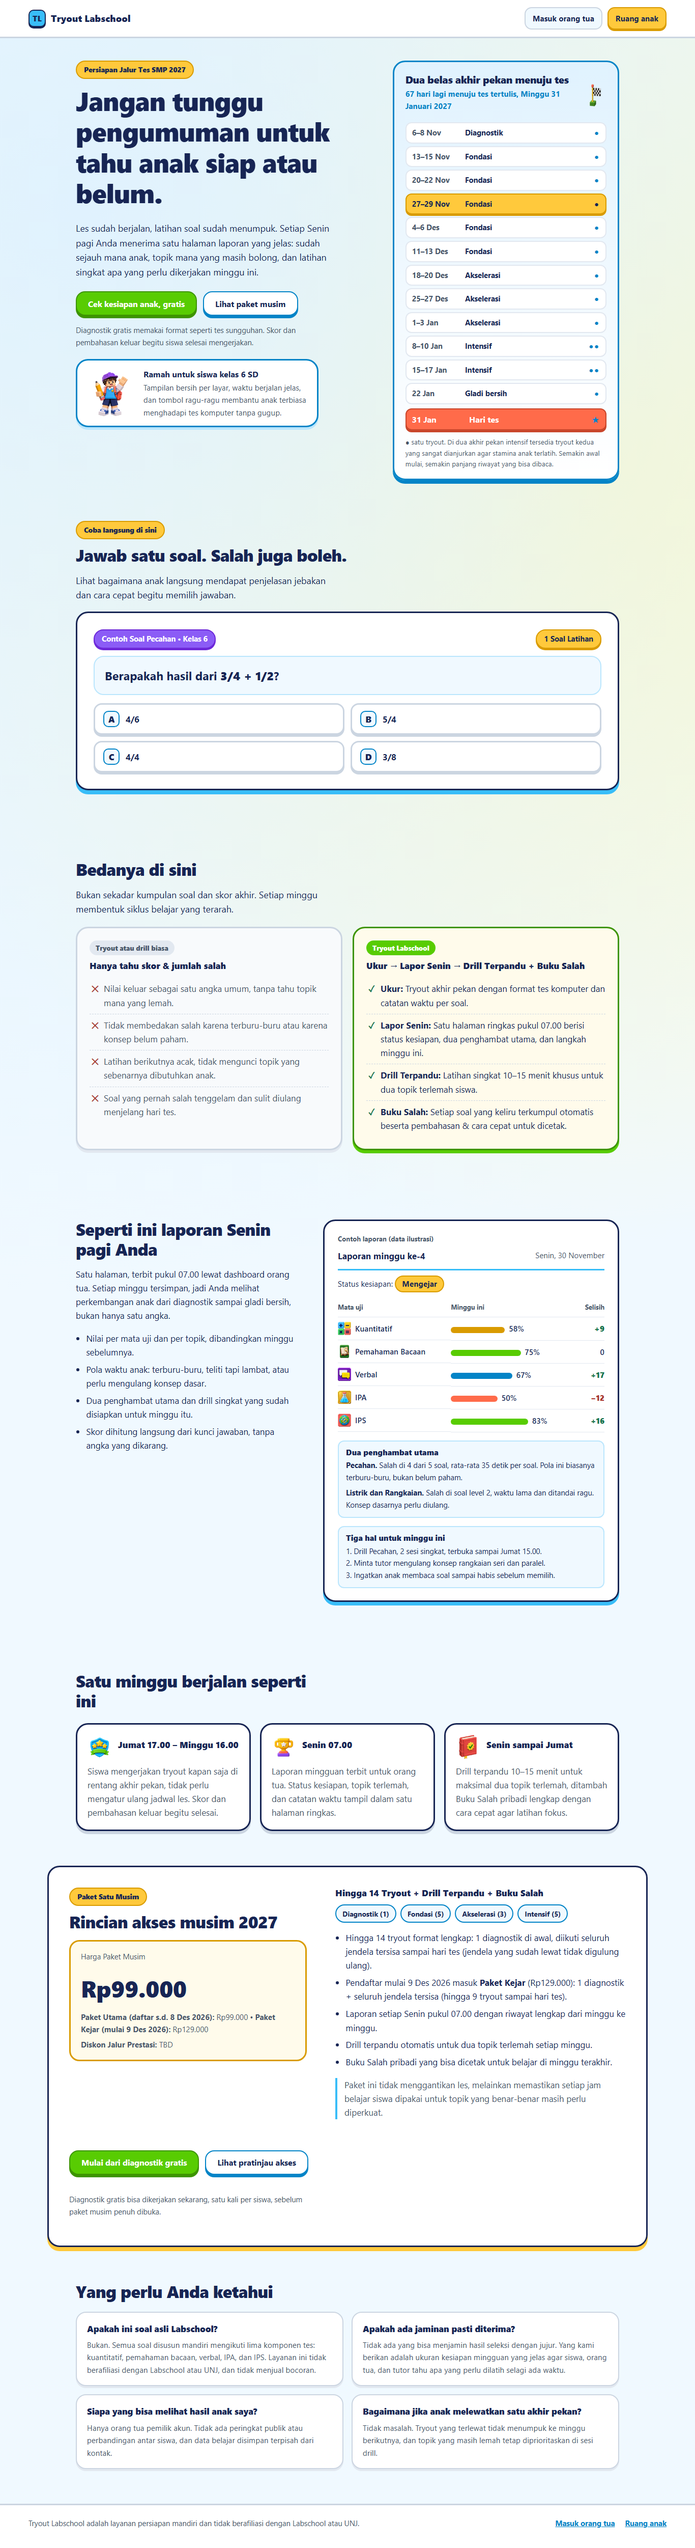
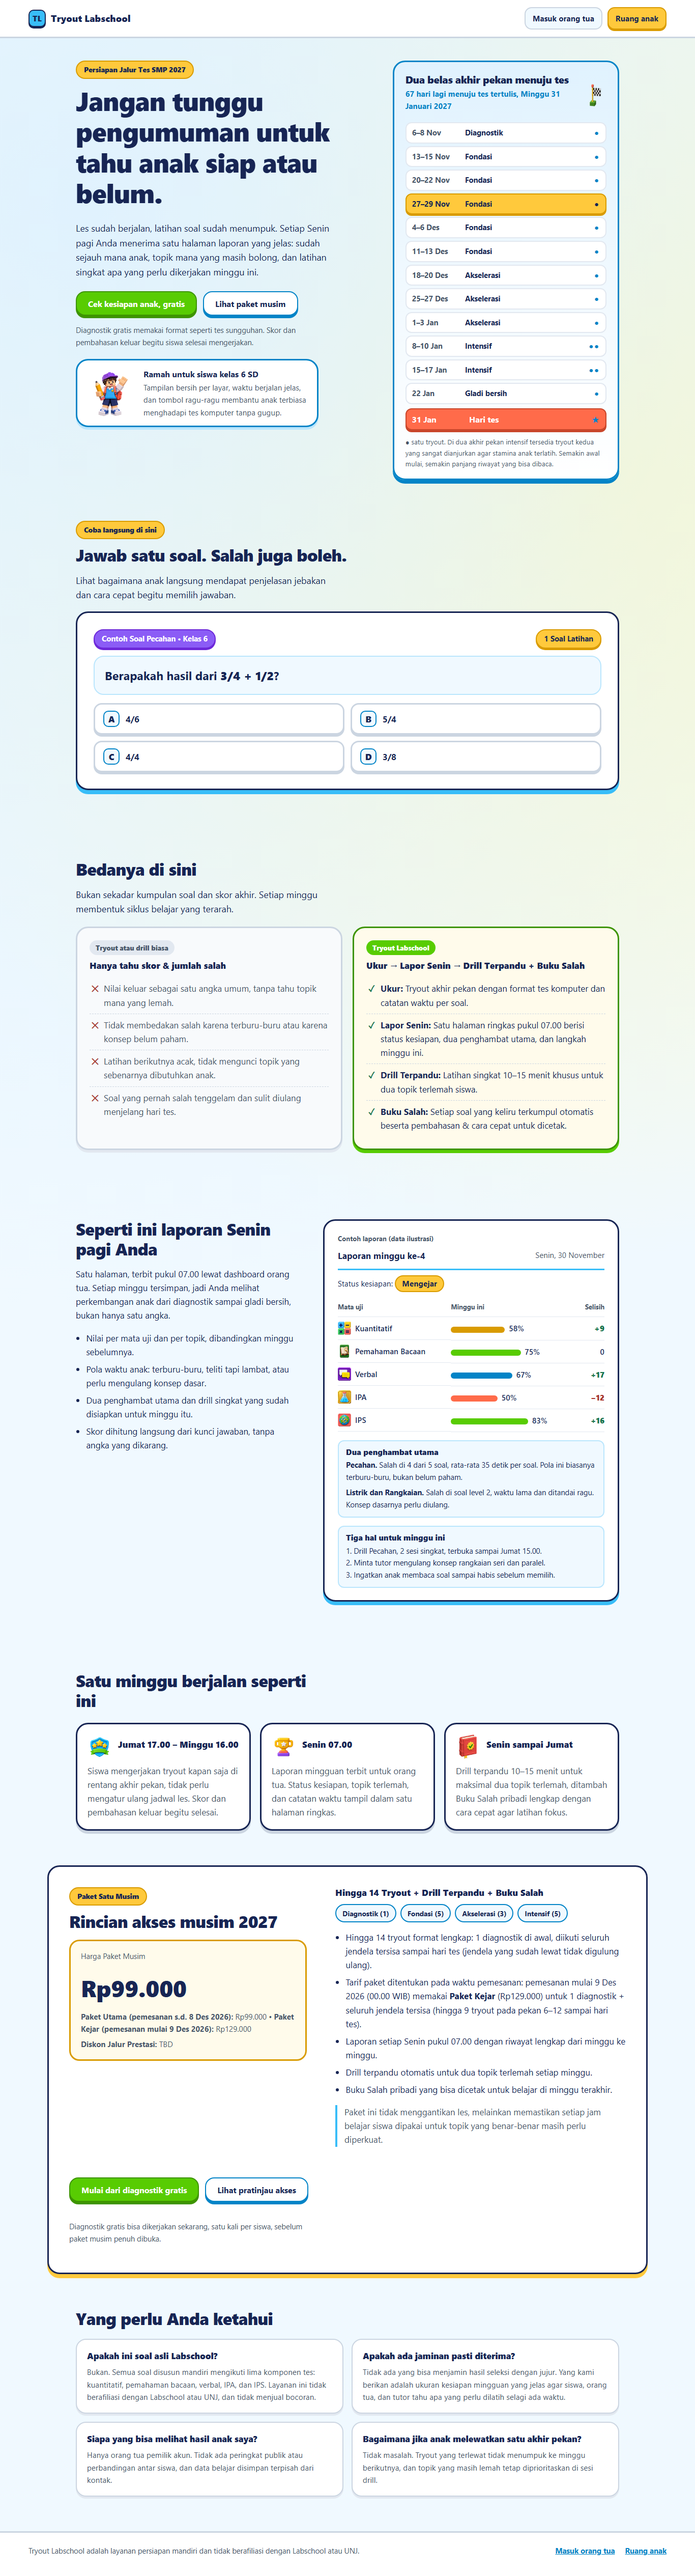
fix(qa): align cutoff copy to order time, fix paywall modal 14-tryout claim, add regressions, and sync QA-PACKAGE

diff --git a/public/index.html b/public/index.html
@@ -245,7 +245,7 @@
       <div class="price-tag-box">
         <p class="fine">Harga Paket Musim</p>
         <p class="amount">Rp99.000</p>
-        <p class="price-sub-row"><strong>Paket Utama (daftar s.d. 8 Des 2026):</strong> Rp99.000 &bull; <strong>Paket Kejar (mulai 9 Des 2026):</strong> Rp129.000</p>
+        <p class="price-sub-row"><strong>Paket Utama (pemesanan s.d. 8 Des 2026):</strong> Rp99.000 &bull; <strong>Paket Kejar (pemesanan mulai 9 Des 2026):</strong> Rp129.000</p>
         <p class="price-sub-row"><strong>Diskon Jalur Prestasi:</strong> TBD</p>
       </div>
     </div>
@@ -259,7 +259,7 @@
       </div>
       <ul class="plain">
         <li>Hingga 14 tryout format lengkap: 1 diagnostik di awal, diikuti seluruh jendela tersisa sampai hari tes (jendela yang sudah lewat tidak digulung ulang).</li>
-        <li>Pendaftar mulai 9 Des 2026 masuk <strong>Paket Kejar</strong> (Rp129.000): 1 diagnostik + seluruh jendela tersisa (hingga 9 tryout sampai hari tes).</li>
+        <li>Tarif paket ditentukan pada waktu pemesanan: pemesanan mulai 9 Des 2026 (00.00 WIB) memakai <strong>Paket Kejar</strong> (Rp129.000) untuk 1 diagnostik + seluruh jendela tersisa (hingga 9 tryout pada pekan 6–12 sampai hari tes).</li>
         <li>Laporan setiap Senin pukul 07.00 dengan riwayat lengkap dari minggu ke minggu.</li>
         <li>Drill terpandu otomatis untuk dua topik terlemah setiap minggu.</li>
         <li>Buku Salah pribadi yang bisa dicetak untuk belajar di minggu terakhir.</li>
@@ -309,17 +309,17 @@
       <img src="/assets/final/paywall-lock.png" alt="Ikon gembok akses paket musim" width="60" height="60">
       <div>
         <span class="badge-star">Pratinjau Paket Musim</span>
-        <h2 id="paywall-title">Buka seluruh 14 Tryout, Drill &amp; Buku Salah</h2>
+        <h2 id="paywall-title">Buka Hingga 14 Tryout, Drill Terpandu &amp; Buku Salah</h2>
       </div>
     </div>
-    <p>Setelah menyelesaikan Diagnostik gratis, akses penuh membuka seluruh rangkaian latihan mingguan hingga hari tes:</p>
+    <p>Setelah menyelesaikan Diagnostik gratis, paket berbayar membuka seluruh jendela latihan mingguan yang tersisa hingga hari tes (jendela yang sudah lewat tidak digulung ulang):</p>
     <ul class="paywall-list">
-      <li><strong>14 Tryout Terjadwal:</strong> Diagnostik (1), Fondasi (5), Akselerasi (3), dan Intensif (5).</li>
+      <li><strong>Hingga 14 Tryout Terjadwal:</strong> 1 Diagnostik di awal + seluruh jendela tersisa dari rangkaian Fondasi (5), Akselerasi (3), Intensif (5), hingga Gladi Bersih (pendaftar terlambat mulai pekan 6/7 memperoleh hingga 8–9 tryout tersisa).</li>
       <li><strong>Laporan Senin 07.00:</strong> Status kesiapan dan analisa waktu per soal setiap minggu.</li>
       <li><strong>Drill Terpandu &amp; Buku Salah:</strong> Fokus pada topik terlemah + versi siap cetak.</li>
     </ul>
     <div class="paywall-price-note">
-      <strong>Paket Utama (s.d. 8 Des 2026):</strong> Rp99.000 &bull; <strong>Paket Kejar (mulai 9 Des 2026):</strong> Rp129.000 (tryout mengikuti jendela tersisa) &bull; <strong>Diskon Jalur Prestasi:</strong> TBD
+      <strong>Paket Utama (pemesanan s.d. 8 Des 2026):</strong> Rp99.000 &bull; <strong>Paket Kejar (pemesanan mulai 9 Des 2026):</strong> Rp129.000 (mengikuti jendela tersisa) &bull; <strong>Diskon Jalur Prestasi:</strong> TBD
     </div>
     <div class="actions">
       <a class="btn solid" href="/parent/#/daftar">Daftar &amp; coba diagnostik gratis</a>

diff --git a/public/parent/parent.js b/public/parent/parent.js
@@ -409,17 +409,22 @@
     const pending = (h.orders || []).find((o) => o.status === 'menunggu');
     const activeName = h.plan === 'kejar' ? 'Paket kejar' : 'Paket utama';
     const offerName = (h.offer && h.offer.plan === 'kejar') ? 'Paket kejar' : 'Paket utama';
+    const cutoffNote = (h.offer && h.offer.plan === 'kejar')
+      ? 'Pemesanan mulai 9 Des 2026 (00.00 WIB) menggunakan tarif Paket Kejar.'
+      : 'Tarif Paket Utama berlaku untuk pemesanan s.d. 8 Des 2026 (pemesanan mulai 9 Des 2026 memakai Paket Kejar Rp129.000).';
     let buy;
     if (paid) {
       buy = `<p class="ok-box"><strong>${esc(activeName)} aktif.</strong> Tryout terbuka setiap Jumat 17.00 sampai Minggu 16.00. Laporan mingguan terbit Senin pukul 07.00.</p>`;
     } else if (h.offer.amount_idr == null) {
-      buy = '<p class="muted">Paket untuk pendaftar mulai 9 Desember sedang disiapkan.</p>';
+      buy = '<p class="muted">Paket untuk pemesanan mulai 9 Desember sedang disiapkan.</p>';
     } else if (h.gateway === 'sim' && !h.playtest) {
       buy = `<p>${esc(offerName)} <strong>${rp(h.offer.amount_idr)}</strong> untuk ${esc(h.offer.tryouts)} tryout pada jendela tersisa sampai hari tes.</p>
+        <p class="muted">${esc(cutoffNote)}</p>
         <p class="muted">Pembayaran online segera dibuka. Diagnostik gratis tetap bisa dikerjakan sekarang.</p>`;
     } else {
       const simTag = h.playtest ? ' <span class="pill sim">Simulasi</span>' : '';
-      const head = `<p>${esc(offerName)} <strong>${rp(h.offer.amount_idr)}</strong>${simTag} untuk ${esc(h.offer.tryouts)} tryout pada jendela tersisa sampai hari tes.</p>`;
+      const head = `<p>${esc(offerName)} <strong>${rp(h.offer.amount_idr)}</strong>${simTag} untuk ${esc(h.offer.tryouts)} tryout pada jendela tersisa sampai hari tes.</p>
+        <p class="muted">${esc(cutoffNote)}</p>`;
       if (pending && pending.payment_url) {
         buy = head + `<p class="muted">Ada pesanan yang menunggu pembayaran.</p>
           <a class="btn solid" href="${esc(pending.payment_url)}">Lanjutkan pembayaran</a>

diff --git a/reference/test_e2e_parent.py b/reference/test_e2e_parent.py
@@ -48,8 +48,12 @@ def test_landing_renders_and_links_to_register(browser):
         assert "AWAS JEBAKAN" in page.inner_text("#demo-trap")
         page.click("#demo-retry"); page.click(".demo-opt[data-choice='B']")
         assert "benar" in page.inner_text("#demo-fb-title").lower()
-        # Cek modal paywall terpadu
+        # Cek modal paywall terpadu (konsisten jendela tersisa & waktu pemesanan, tanpa klaim mutlak seluruh 14 tryout)
         page.click("#open-paywall"); page.wait_for_selector("#paywall-modal:not([hidden])")
+        modal_txt = page.inner_text("#paywall-modal")
+        assert "Hingga 14 Tryout" in modal_txt and "Buka seluruh 14 Tryout" not in modal_txt
+        assert "jendela yang sudah lewat tidak digulung ulang" in modal_txt
+        assert "pemesanan s.d. 8 Des 2026" in modal_txt and "pemesanan mulai 9 Des 2026" in modal_txt
         page.click("#close-paywall")
         page.click("text=Cek kesiapan anak, gratis"); page.wait_for_selector("text=Daftar dan coba diagnostik gratis")
         assert not errs, errs
@@ -263,3 +267,32 @@ def test_canonical_bank_subjects_and_mobile_portals_in_browser(tmp_path, browser
             if p: p.close()
         s.shutdown(); s.server_close()
         bank.configure(None)
+
+
+def test_late_joiner_and_cross_cutoff_order_in_browser(browser):
+    """Regresi E2E: daftar 8 Des lalu order mulai 9 Des (Kejar Rp129.000) & akses jendela tersisa (9 tryout)."""
+    s, base = _serve(True)
+    page = browser.new_page(viewport={"width": 1200, "height": 900}); errs = _watch(page)
+    try:
+        # 1. Daftar 8 Des 20.00 WIB -> penawaran dashboard sebelum order masih Paket Utama + tanggal pemesanan eksplisit
+        page.goto(base + "/parent/?sim=2026-12-08T20:00#/daftar")
+        page.fill("#name", "Ibu Lintas"); page.fill("#whatsapp", "081277770001")
+        page.fill("#email", "lintas@contoh.id"); page.fill("#pin", "246810")
+        page.check("#consent"); page.click("button[type=submit]")
+        page.wait_for_selector(".code")
+        page.click("text=Saya sudah mencatat kode"); page.wait_for_selector("h1:has-text('Dashboard')")
+        pre_txt = page.inner_text("main")
+        assert "Paket utama" in pre_txt and "Rp99.000" in pre_txt and "pemesanan s.d. 8 Des 2026" in pre_txt
+
+        # 2. Melewati 9 Des 00.00 WIB sebelum order -> tawaran beralih ke Paket Kejar Rp129.000 (9 tryout tersisa)
+        page.goto(base + "/parent/?sim=2026-12-10T10:00#/beranda")
+        page.wait_for_selector("text=Paket kejar")
+        post_txt = page.inner_text("main")
+        assert "Paket kejar" in post_txt and "Rp129.000" in post_txt and "9 tryout pada jendela tersisa" in post_txt
+        assert "Pemesanan mulai 9 Des 2026" in post_txt
+        page.click("#order"); page.wait_for_selector("#pay")
+        page.click("#pay"); page.wait_for_selector("text=Paket kejar aktif.")
+        assert not errs, errs
+    finally:
+        page.close()
+        s.shutdown(); s.server_close()

diff --git a/reference/test_backend.py b/reference/test_backend.py
@@ -531,3 +531,17 @@ def test_g20_parent_register_and_relogin_same_device_counts_as_one_slot(app):
     # Perangkat ke-4 ditolak
     st4, e4 = call(app, "POST", "/api/parent/login", {"email": "p-dev@b.co", "pin": "123456"}, headers={"User-Agent": same_ua, "X-Device-Id": "dev_p4"})
     assert st4 == 403 and e4["error"] == "device_limit_tercapai"
+
+
+def test_cutoff_determined_by_order_time_register_8_dec_order_9_dec(app):
+    st, r = call(app, "POST", "/api/parent/register",
+                 {"name": "Ibu Lintas Cutoff", "whatsapp": "081234567895", "email": "cutoff@b.co", "campus": "Cibubur", "track": "Tes", "grade": "6", "consent": True, "pin": "123456"},
+                 t="2026-12-08T20:00")
+    assert st == 200
+    st_h1, h1 = call(app, "GET", "/api/parent/home", token=r["token"], t="2026-12-08T20:05")
+    assert st_h1 == 200 and h1["offer"]["plan"] == "utama" and h1["offer"]["amount_idr"] == 99_000
+    # Melewati 9 Des 00.00 WIB saat order: tawaran & pesanan memakai tarif Kejar
+    st_h2, h2 = call(app, "GET", "/api/parent/home", token=r["token"], t="2026-12-09T00:00")
+    assert st_h2 == 200 and h2["offer"]["plan"] == "kejar" and h2["offer"]["amount_idr"] == 129_000 and h2["offer"]["tryouts"] == 9
+    st_o, o = call(app, "POST", "/api/parent/orders", {}, token=r["token"], t="2026-12-09T00:00")
+    assert st_o == 200 and o["plan"] == "kejar" and o["amount_idr"] == 129_000

diff --git a/QA-PACKAGE.md b/QA-PACKAGE.md
@@ -62,10 +62,10 @@ Semua test berikut dijalankan setelah perbaikan QA Gate:
 
 | Suite | Perintah | Hasil | Target Minimum |
 |---|---|---|---|
-| **Reference Tests (Total Pytest)** | `cd reference && python -m pytest -q` | **184/184 lulus** | 171/171 |
+| **Reference Tests (Total Pytest)** | `cd reference && python -m pytest -q` | **186/186 lulus** | 171/171 |
 | **Real-HTTP Integration** | `cd reference && python -m pytest test_server.py -q` | **22/22 lulus** | 22/22 |
 | **Pen-Test & Anti-Clone** | `cd reference && python -m pytest test_pentest.py -q` | **21/21 lulus** | 21/21 |
-| **Playwright E2E & Click-Checks** | `cd reference && python -m pytest test_e2e_child.py test_e2e_parent.py -v` | **8/8 lulus** (termasuk dalam 184; mencakup bank kanonik 5 mapel & mobile 375px semua portal) | 6/6 + human click-checks |
+| **Playwright E2E (Otomatis Chromium)** | `cd reference && python -m pytest test_e2e_child.py test_e2e_parent.py -v` | **9/9 lulus** (termasuk dalam 186; uji otomatis alur utama & overflow 375px, **belum menggantikan** human click-check penuh di perangkat fisik) | 6/6 + human click-check |
 | **Simulasi Musim & Persona** | `cd reference && python sim_check.py` | **3345/3345 checks OK** | 1991/1992 |
 | **Frontend JS Runner** | `node frontend/runner.test.js` | **6/6 lulus** | 6/6 |
 | **JS Syntax Check** | `node --check public/js/*.js public/child/child.js public/parent/parent.js` | **5/5 lulus (0 galat)** | — |
@@ -88,7 +88,7 @@ Semua test berikut dijalankan setelah perbaikan QA Gate:
 
 1. **Dual-kompatibilitas kode akses (`child_code` 9-char + `access_code` `LAB-XXXX-XXXX`):** Endpoint `/api/child/login` menerima kedua format dengan menormalkan prefix `LAB-`, sehingga memenuhi spesifikasi Section 4 sekaligus menjaga test existing `len(child_code) == 9` tetap hijau tanpa regresi.
 2. **Pelacakan batas 3 perangkat (G-20) berdasarkan `X-Device-Id` / `User-Agent`:** Permintaan tanpa header perangkat dikelompokkan sebagai `"default"` agar test unit tanpa header tidak terblokir, sementara perangkat berbeda (`User-Agent` / `X-Device-Id` berbeda) dibatasi ketat maksimal 3 per `(family_id, role)` dengan HTTP `403 device_limit_tercapai`.
-3. **Pemasangan Python 3.12 + Playwright lokal untuk verifikasi nyata:** Mesin Windows lokal awalnya hanya memiliki stub Microsoft Store Python; instalasi Python 3.12.10 + Playwright Chromium memungkinkan eksekusi nyata seluruh 176 test dan verifikasi screenshot desktop + mobile 375px.
+3. **Pemasangan Python 3.12 + Playwright lokal untuk verifikasi nyata:** Mesin Windows lokal awalnya hanya memiliki stub Microsoft Store Python; instalasi Python 3.12.10 + Playwright Chromium memungkinkan eksekusi nyata seluruh **186** tes (`177` unit/HTTP/pentest/bank + `9` E2E browser) dan verifikasi screenshot desktop + mobile 375px. Note operasional: folder `BANK_DIR` produksi wajib hanya berisi bank kanonik tervalidasi (`batch_01.json` dsb.); fixture mentah tidak dimasukkan ke `BANK_DIR` siswa.
 4. **Pengurasan body terbatas pada error HTTP 413 di `server.py`:** Menutup koneksi langsung tanpa membaca buffer pada Windows TCP stack memicu `WinError 10053`; membaca body <= `2 * MAX_BODY` sebelum menutup koneksi menghilangkan race tersebut tanpa membuka risiko DoS untuk payload raksasa.
 5. **Penyimpanan gamifikasi terpisah di tabel `child_xp_events` dan isolasi total di `/api/parent/*`:** Memastikan XP, bintang, streak, dan level tidak pernah terekspos ke laporan orang tua sesuai larangan Section 5.
 
@@ -144,14 +144,14 @@ Tangkapan layar berikut dihasilkan langsung dari test Playwright E2E di Chromium
 ## 8. Instruksi Menjalankan Ulang Seluruh Test (untuk Claude QA Gate)
 
 ```bash
-# 1. Reference tests + Real-HTTP (22) + Pen-test (21) + Playwright E2E (7) = 177 tests
+# 1. Reference tests + Real-HTTP (22) + Pen-test (21) + Playwright E2E (9) = 186 tests
 cd reference
 QUIET_LOG=1 python -m pytest -q
 
 # 2. Verifikasi suite terpisah per kategori
 QUIET_LOG=1 python -m pytest test_server.py -q     # 22/22 real-HTTP
 QUIET_LOG=1 python -m pytest test_pentest.py -q    # 21/21 pen-test
-QUIET_LOG=1 python -m pytest test_e2e_child.py test_e2e_parent.py -v  # 7/7 Playwright E2E
+QUIET_LOG=1 python -m pytest test_e2e_child.py test_e2e_parent.py -v  # 9/9 Playwright E2E (uji otomatis; human click-check dilakukan terpisah)
 
 # 3. Simulasi penuh musim & persona (3345 checks)
 python sim_check.py
